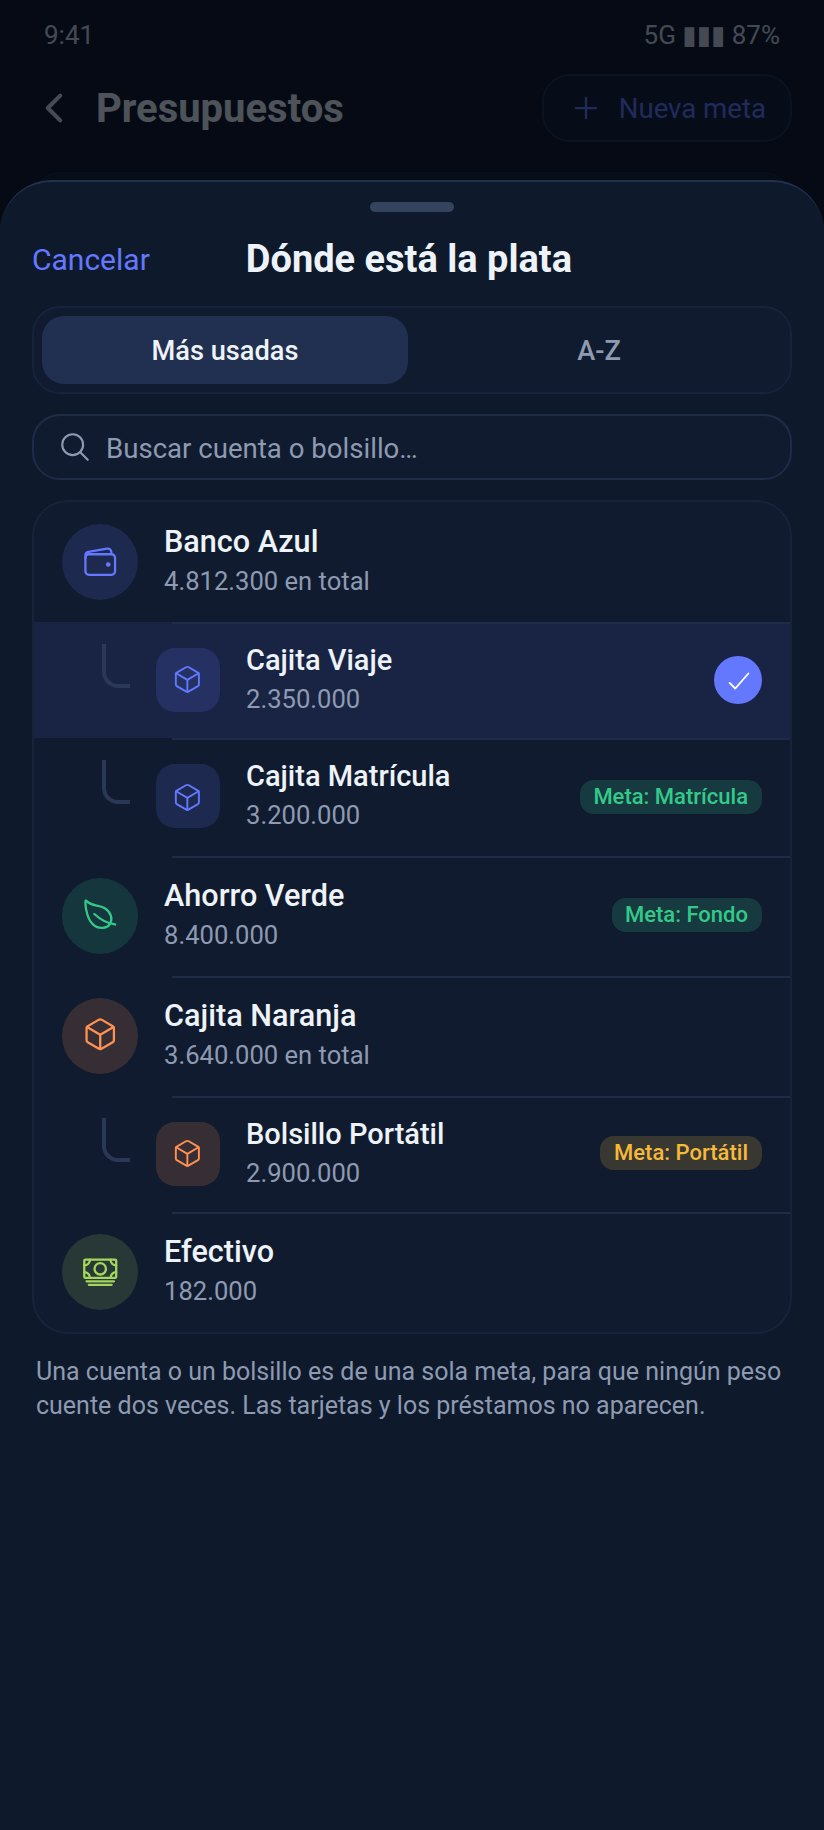
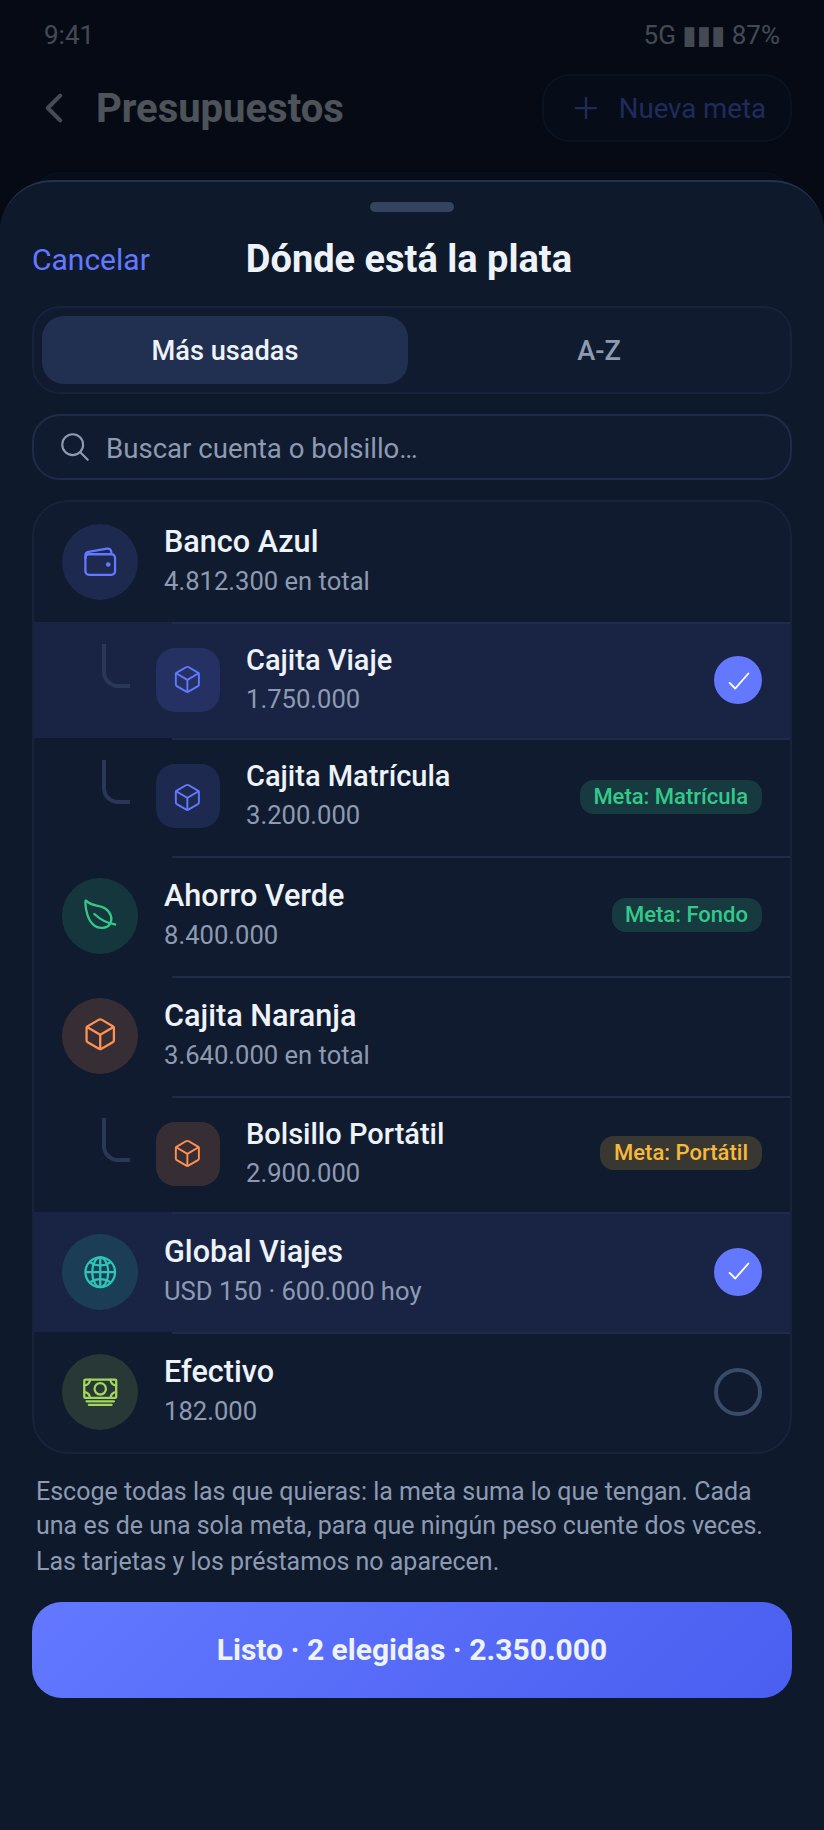
Let a goal sum several accounts or products
Mockups 15c-15h v2: a goal's money can sit in several places, each one
counting all it holds or only what comes in from the goal's start, a dollar
account at today's rate; a place still belongs to one goal only.

Claude-Session: https://claude.ai/code/session_01QyUqFix1SMdsKVBtd1Wz88

diff --git a/docs/mockups/README.md b/docs/mockups/README.md
@@ -37,7 +37,7 @@ Every list of movements is in folding sections (by day or category), only the fi
 | `14a`–`14f` | **Part 3, plans, step 1: spending limits, for approval** (2026-10-01; invented figures): Planes in Más → Tus finanzas, Planes with no limit yet (the categories where the money goes most, one tap from a limit), Planes with limits in their colours, a new limit (the average of 3 months offered), one limit (the pace, the months before against the line, what counts this month), Inicio saying only when a limit is close or passed. Goals are step 2 |
 | `14g`–`14k` | **A limit passed, made to stand out** (Jose: a red bar is not enough): Planes with a red card on top like an overdue card and the limit marked "Pasado" with its bar running past the mark; the sheet that says so the moment the movement that crosses it is saved; Inicio with the same red card on top; the phone's own notification (100 % in red, 80 % before it); the limit's page when passed, with a more realistic figure for next month |
 | `14l`–`14p` | **The total of all limits passed** (v2, Jose: the solid red of v1 was too invasive): the same tinted red as one limit, saying it is the total, with each passed limit below as its own red card (as in `14g`), on Planes and on top of Inicio; the sheet at saving, the same as one limit's; the phone notification with its title in red; a red dot on Más. **Every notice at saving carries "No volver a mostrar esto"** (`14h`, `14n`), and the bell in Planes opens **Avisos** (`14p`): at saving, the phone notification and the 80 % one, each turned off and back on |
-| `15a`–`15l` | **Part 3, plans, step 2: goals, for approval** (2026-10-01; invented figures). Planes is called Presupuestos, with Topes and Metas. A goal is a figure, an optional date and the account or product where the money sits; its progress is that balance. Más, no goals yet, the goals (on time, late, reached), a new goal, choosing where the money is (one goal per place), what counts (all of it or only what comes in from today), an emergency fund as months of real spending, a goal on time, late (pay in or move the date), reached, paying in through the one transfer form, and Inicio saying only when a goal falls behind |
+| `15a`–`15l` | **Part 3, plans, step 2: goals, for approval** (2026-10-01; invented figures). Planes is called Presupuestos, with Topes and Metas. A goal is a figure, an optional date and the account or product where the money sits; its progress is that balance. Más, no goals yet, the goals (on time, late, reached), a new goal, choosing where the money is (v2, Jose: several accounts or products per goal, summed, each in one goal only, a dollar one at today's rate), what counts (all of it or only what comes in from today), an emergency fund as months of real spending, a goal on time, late (pay in or move the date), reached, paying in through the one transfer form, and Inicio saying only when a goal falls behind |
 | `6a`–`6z` | Group 6 (v5): Por revisar - the account on top, the batch and its list by day, the notices on rows, shops that repeat, the check's bubble; a movement checked in the one movement form (its note with suggestions, missing its category, maybe the same); choosing several by day and by shop, and saving them; the filter-and-order sheet, a filter on; the account list with Todas first; the "···" and discarding; squaring with the bank (its (i), its question); reading a statement - whose it is, the password, the stages, what was read (a toast), one that does not square, one that cannot be read; nothing to review |
 | `7a`–`7m` | Group 7 (v4): Avisos del banco - the apps and their switches, the (i), what they said by day, choosing several apps, hiding, hidden apps, the "···" and forgetting everything, without permission and its (i), nothing yet, a search with nothing |
 | `8a`–`8q` | Group 8 (v5): Más (replacing the drawer), language and appearance, Importar y exportar with its (i)'s, restoring and its question, Google signed out and in, saving alone, bringing the copy back, replacing another device's copy, changing account; appearance with the colour of the app |
